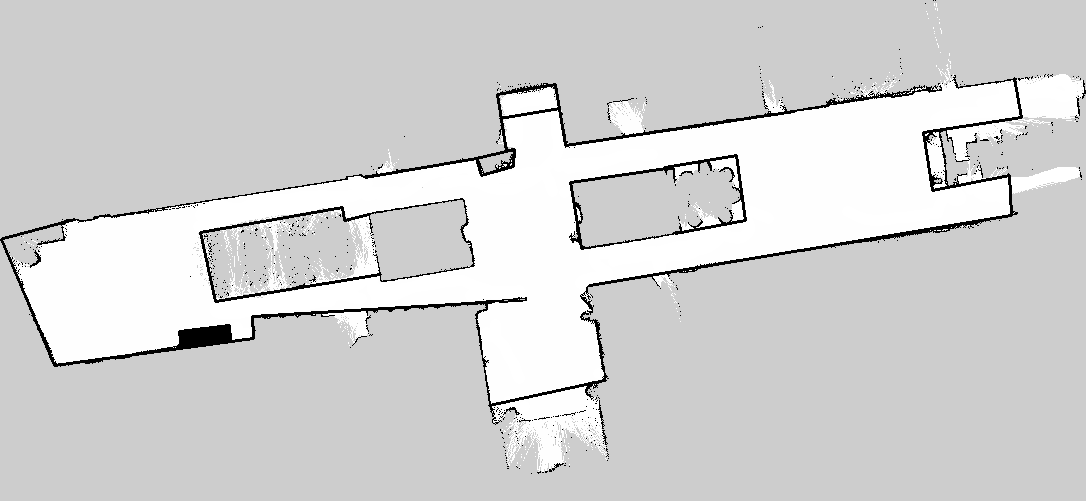
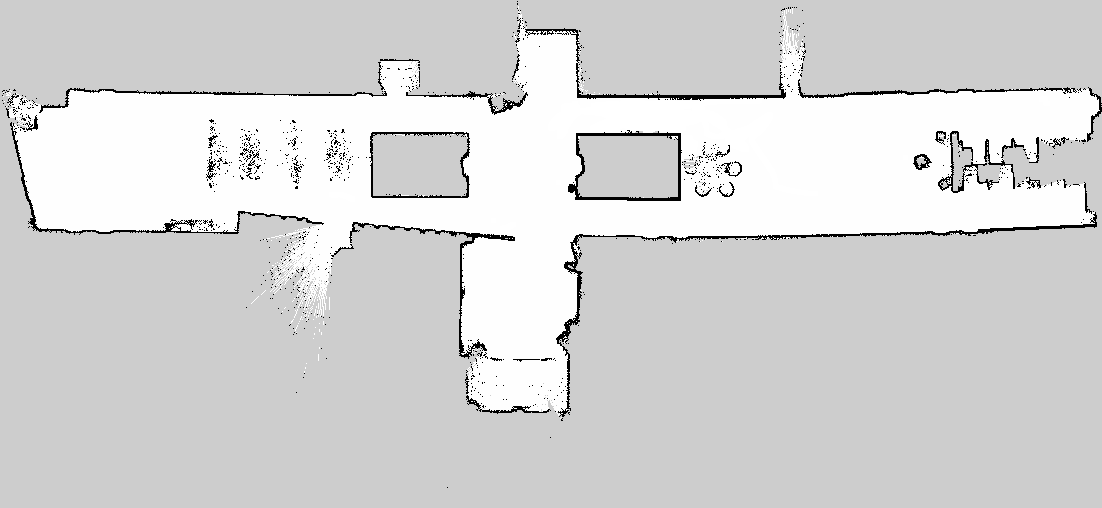
update map

Changed region(s): [[0.0, 0.0299, 1.0, 0.9581]]

diff --git a/src/app/app.component.ts b/src/app/app.component.ts
@@ -44,8 +44,8 @@ export class AppComponent {
     "CANCEL"
   ];
 
-  map_center : Pose = new Pose(54.3, 25.05);
-  map_origin : Pose = new Pose(-25.4, -7.74);
+  map_center : Pose = new Pose(55.1, 25.4);
+  map_origin : Pose = new Pose(-13.9, -27.2);
   map_resolution : number = 0.05;
 
   locations: MapLocation[] = [];

diff --git a/src/styles.css b/src/styles.css
@@ -38,8 +38,8 @@ body {
 
 
 .robotmap {
-    width: 1086px;
-    height: 501px;
+    width: 1102px;
+    height: 508px;
     border-radius: 12px;
     border: 2px solid rgba(0,0,0,0.2); 
     margin: 0;
